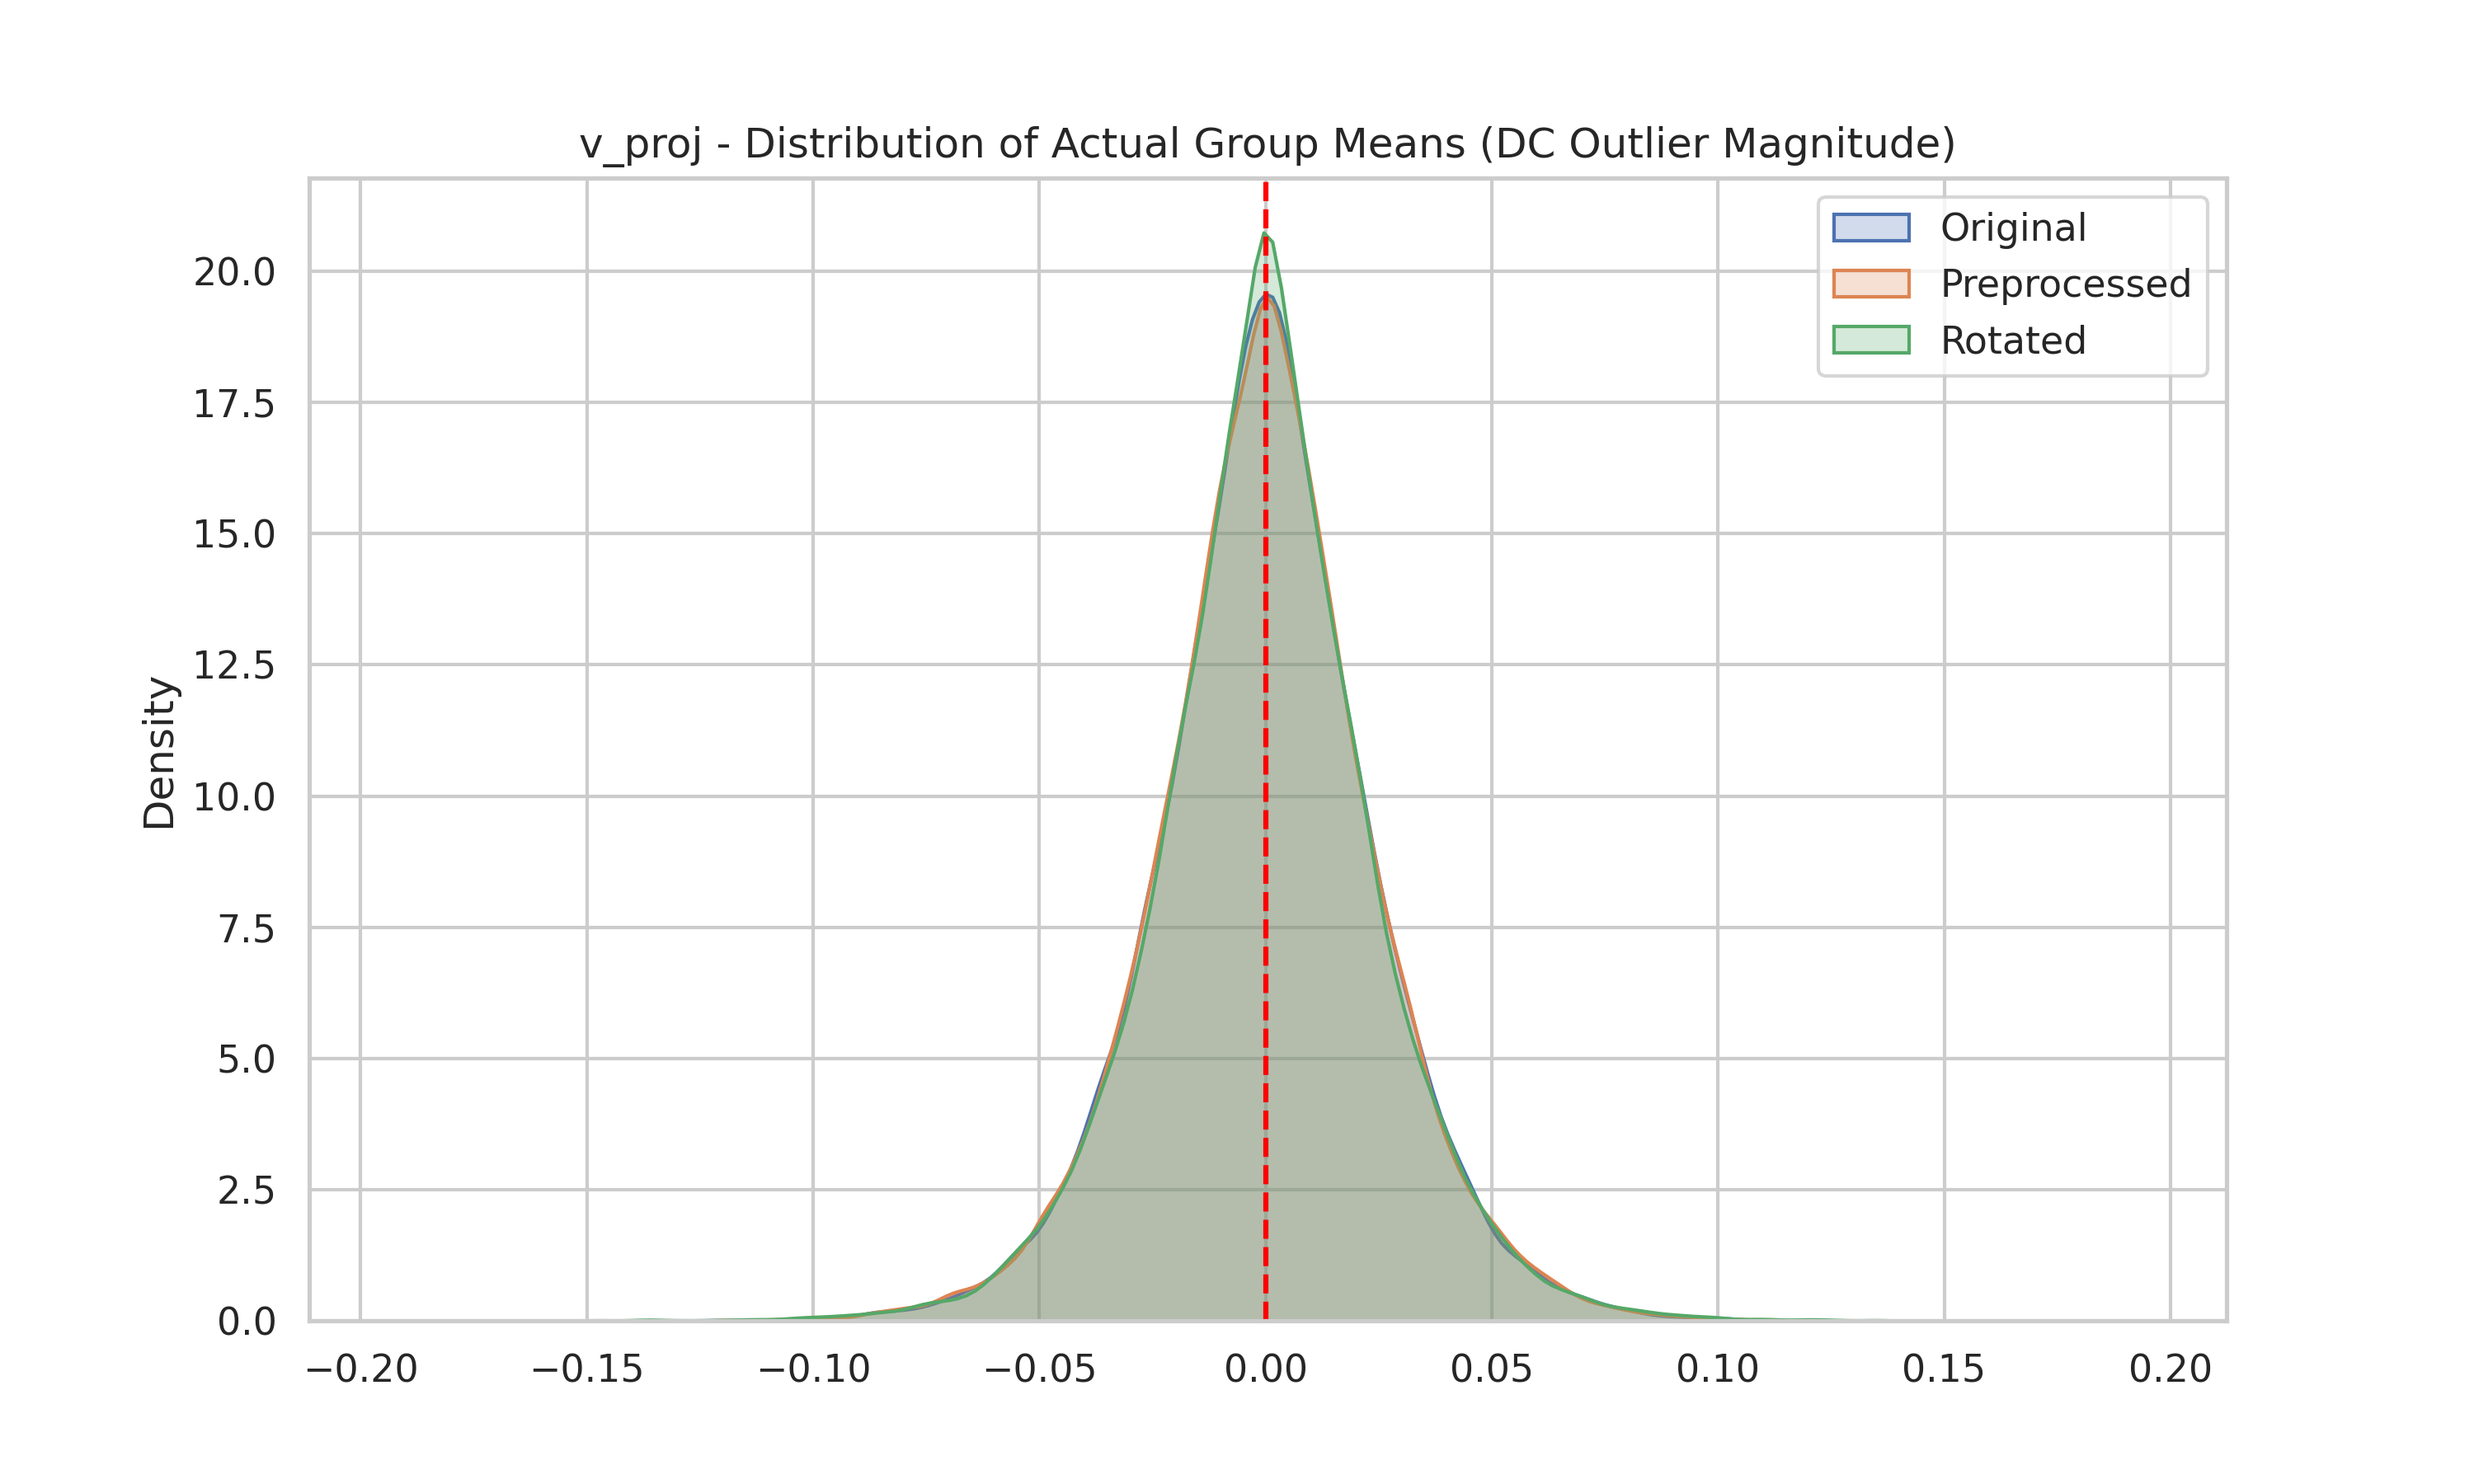
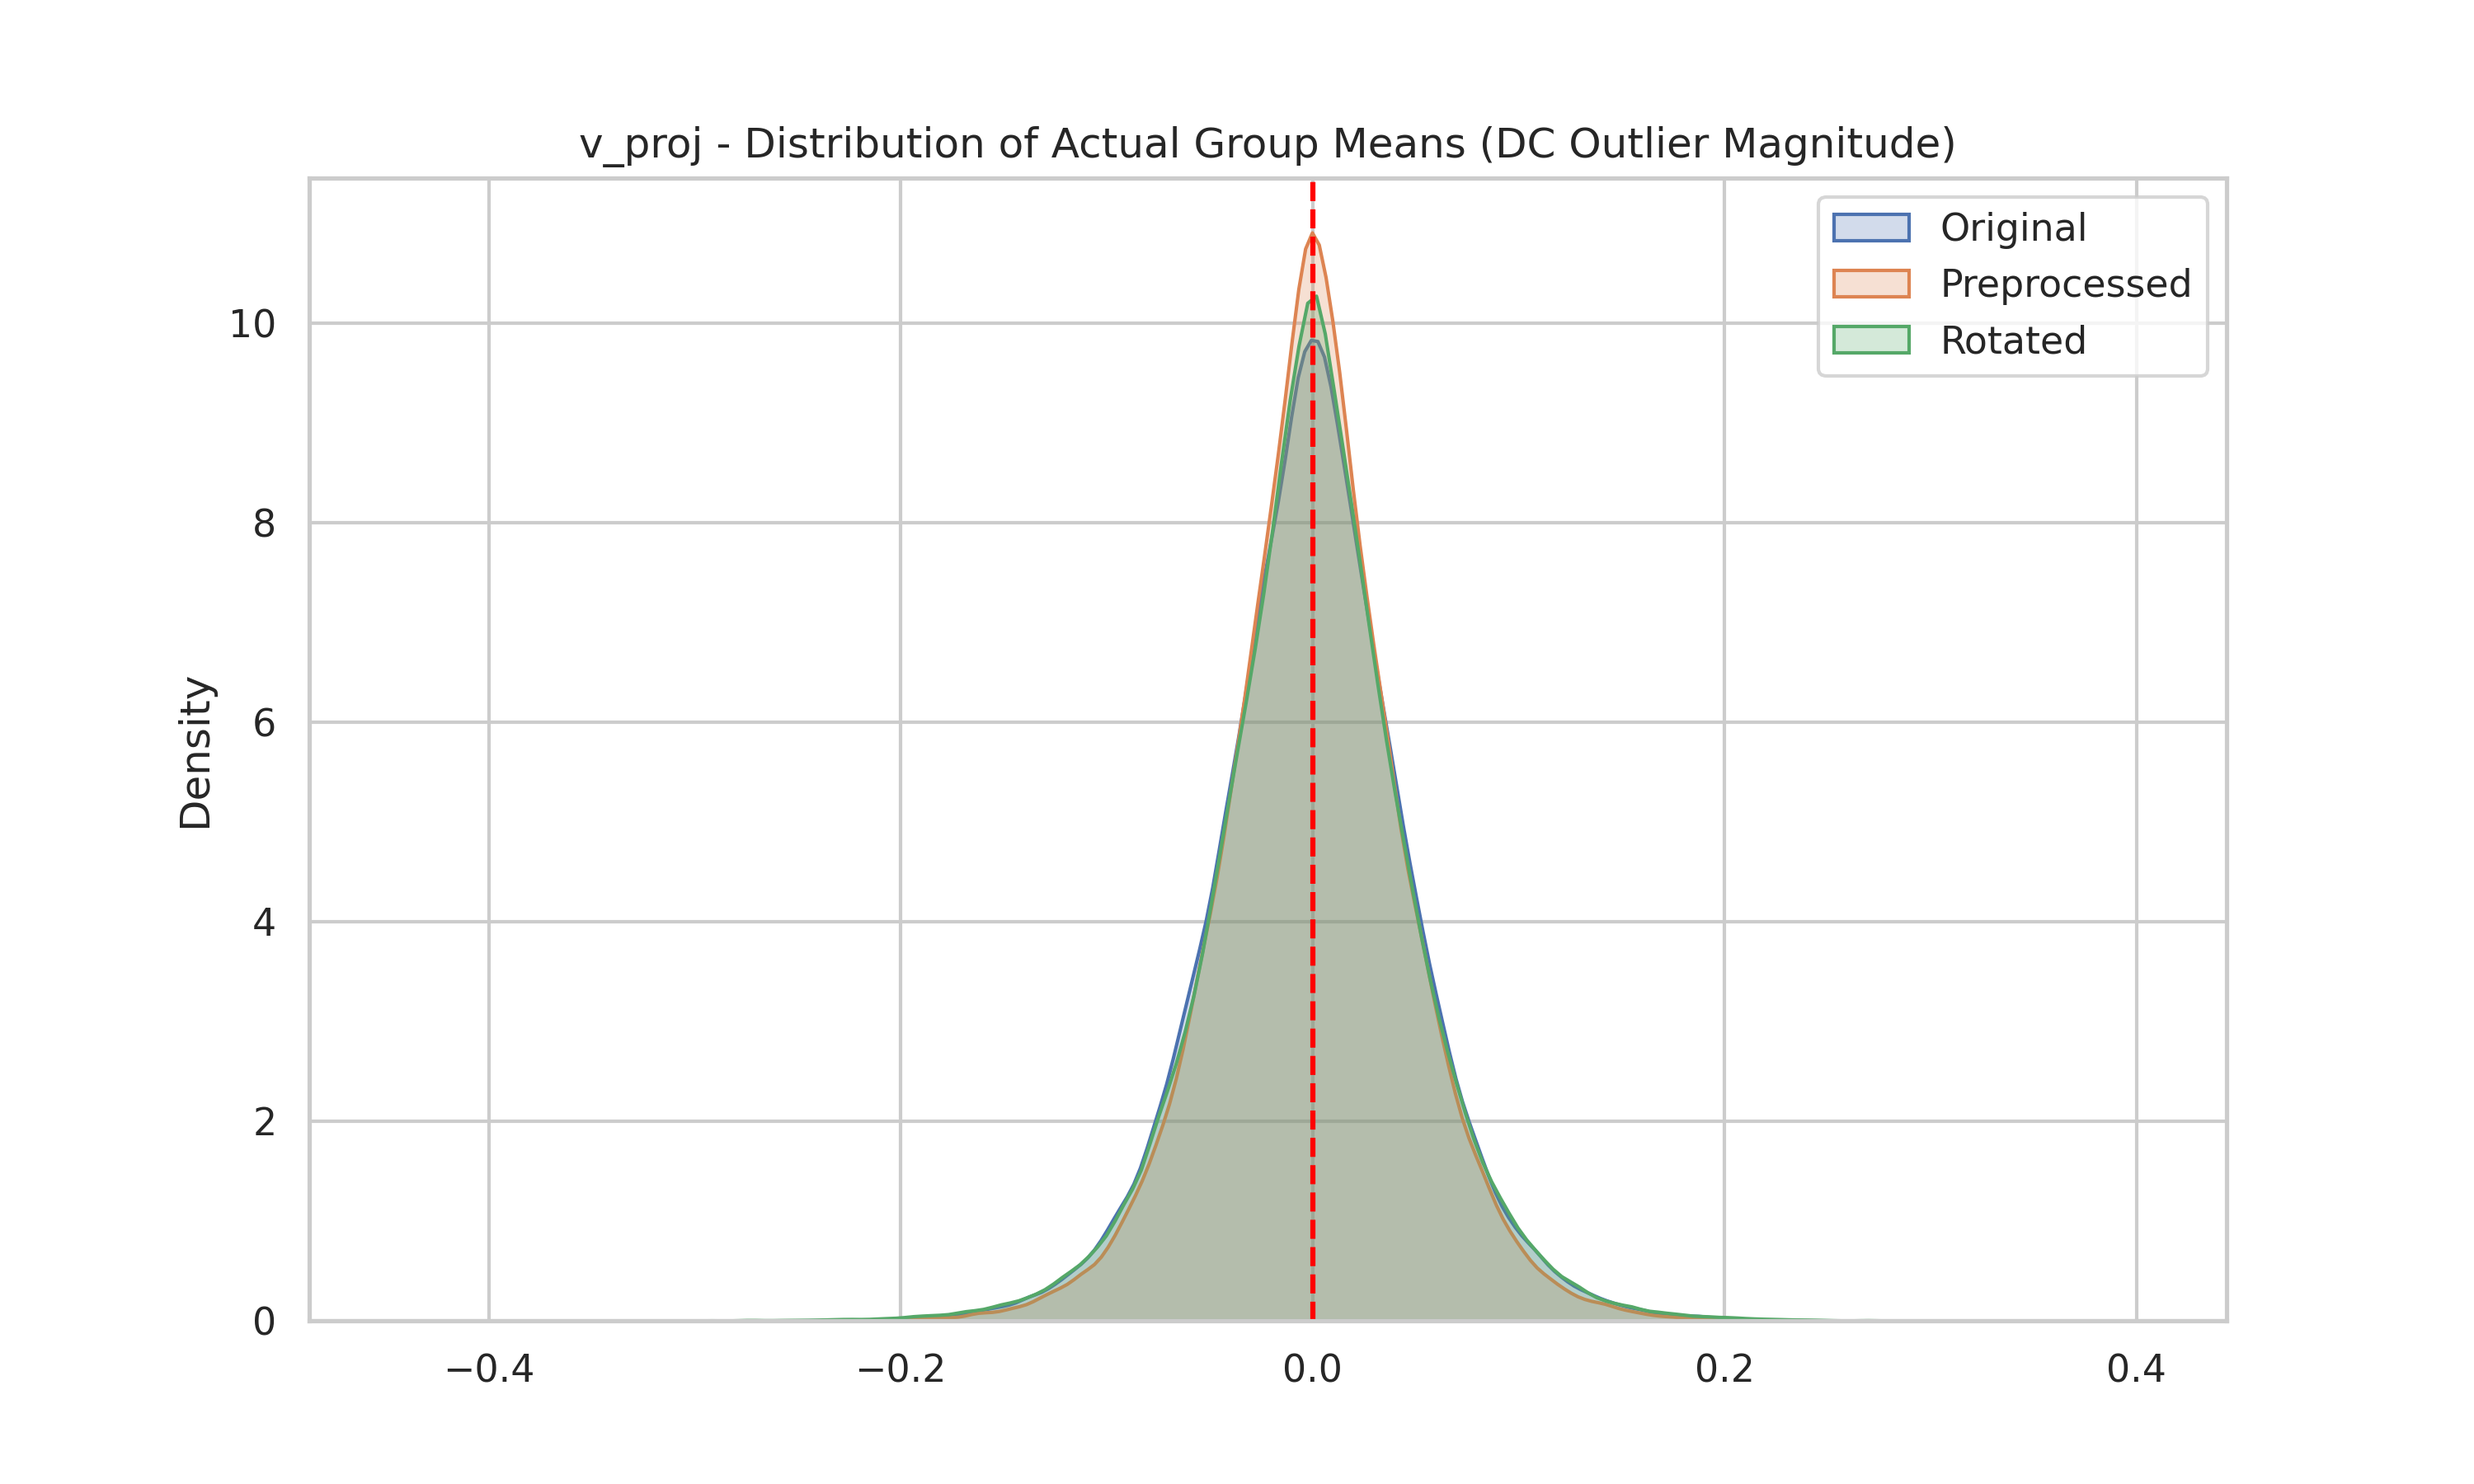
id3.2.1_output

diff --git a/src/quantization/gptaq.py b/src/quantization/gptaq.py
@@ -336,7 +336,7 @@ def gptaq_quantization(
             w_mean = W_fused.mean(dim=0)
             
             # Auto-align with actual hadamard group size to ensure DC suppression
-            G = getattr(args, "hadamard_group_size", 128)
+            G = getattr(args, "w_group_size", 128)
             for g in range(0, in_features, G):
                 g_end = min(g + G, in_features)
                 current_signs = torch.ones(g_end - g, device=W_fused.device)
